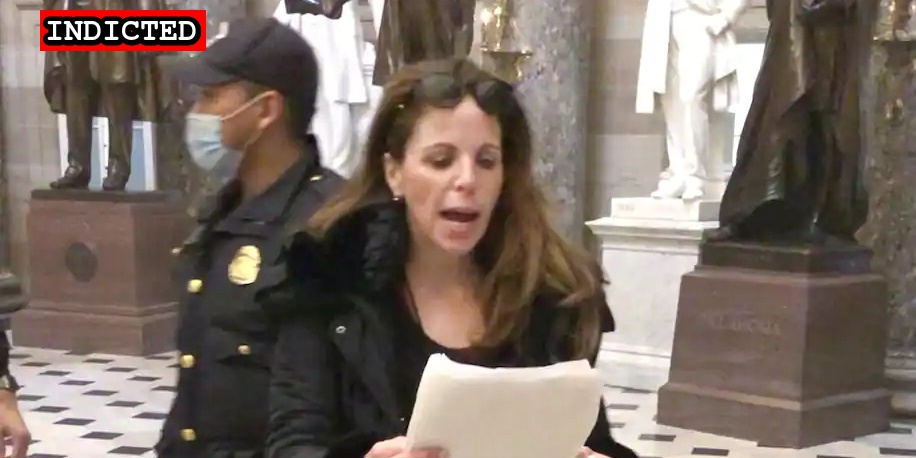
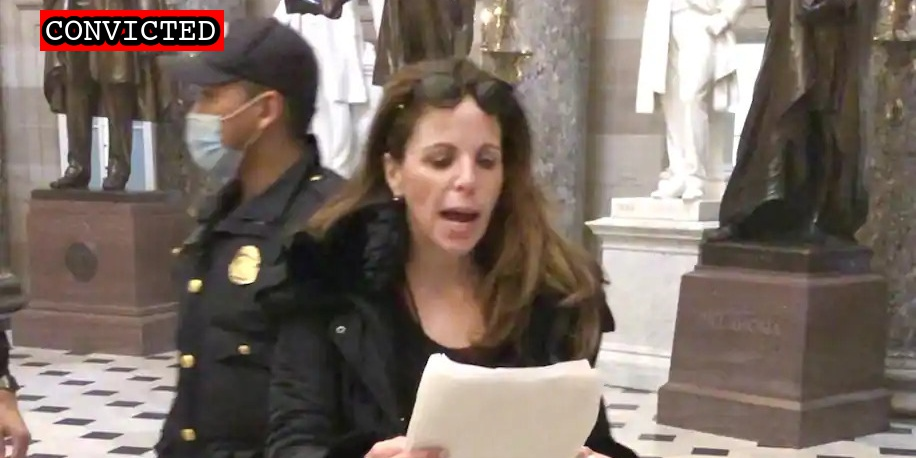
Latest import

Changed region(s): [[0.0306, 0.0, 0.2445, 0.1223]]

diff --git a/docs/_suspects/simone-gold.md b/docs/_suspects/simone-gold.md
@@ -4,15 +4,15 @@ lastName: Gold
 hashtag: SimoneGold
 aka:
 residence: California
-status: Indicted
+status: Convicted
 date: 2021-01-18
 charged: 2021-01-18
 indicted: 2021-02-05
-convicted: 
-sentenced: 
-dismissed: 
+convicted: 2022-03-03
+sentenced:
+dismissed:
 deceased:
-plea_hearing:
+plea_hearing: 2022-03-03
 sentencing:
 age: 55
 occupation: Founder of America’s Frontline Doctors (COVID disinformation)
@@ -34,11 +34,17 @@ published: true
 caseNumber: 1:21-cr-85
 videos:
 charges:
+  - code: 18 USC § 1752(a)(1)
+    title: Entering a restricted building or grounds
+    url: https://www.law.cornell.edu/uscode/text/18/1752
+    felony: false
 sentence:
 ---
+
 - [News Report](https://losangeles.cbslocal.com/2021/01/19/beverly-hills-salon-owner-gina-bisignano-2-others-arrested-for-capitol-riots/)
 - [Self Incrimination (Interview)](https://www.washingtonpost.com/investigations/simone-gold-capitol-riot-coronavirus/2021/01/12/d1d39e84-545f-11eb-a817-e5e7f8a406d6_story.html)
 - [FBI Statement (Twitter)](https://twitter.com/FBILosAngeles/status/1351604985210040326?s=20)
-- [Statement of Facts](https://www.justice.gov/opa/page/file/1356546/download)
+- [Statement of Facts](https://www.justice.gov/usao-dc/case-multi-defendant/file/1479696/download)
 - [Complaint](https://www.justice.gov/opa/page/file/1356551/download)
 - [Indictment](https://www.justice.gov/usao-dc/case-multi-defendant/file/1365386/download)
+- [Plea Agreement](https://www.justice.gov/usao-dc/case-multi-defendant/file/1479691/download)

diff --git a/docs/_suspects/philip-weisbecker.md b/docs/_suspects/philip-weisbecker.md
@@ -4,15 +4,15 @@ lastName: Weisbecker
 hashtag:
 aka:
 residence: California
-status: Charged
+status: Convicted
 date: 2021-10-14
 charged: 2021-10-14
 indicted:
-convicted:
+convicted: 2022-03-03
 sentenced:
 dismissed:
 deceased:
-plea_hearing:
+plea_hearing: 2022-03-03
 sentencing:
 age:
 occupation: Freelance Construction Building Estimator
@@ -31,11 +31,15 @@ description: Click for latest case details. Suspects innocent until proven guilt
 author: seditiontrack
 layout: suspect
 published: true
-caseNumber:
+caseNumber: 1:21-cr-682
 videos:
 charges:
+- code: 18 USC § 5104(e)(2)(G)
+  title: Parading, demonstrating or picketing in a Capitol building
+  url: https://www.law.cornell.edu/uscode/text/40/5104
+  felony: false
 sentence:
 ---
-
 - [News Report](https://www.rawstory.com/insurrectionist-says-ashli-babbitt-fake/)
-- [Statement of Facts](https://extremism.gwu.edu/sites/g/files/zaxdzs2191/f/Philip%20Weisbecker%20Statement%20of%20Facts.pdf)
+- [Statement of Facts](https://www.justice.gov/usao-dc/case-multi-defendant/file/1479891/download)
+- [Plea Agreement](https://www.justice.gov/usao-dc/case-multi-defendant/file/1479886/download)

diff --git a/docs/_suspects/narayana-rheiner.md b/docs/_suspects/narayana-rheiner.md
@@ -1,0 +1,41 @@
+---
+name: Narayana Rheiner
+lastName: Rheiner
+hashtag:
+aka:
+residence:
+status: Charged
+date: 2022-03-01
+charged: 2022-03-01
+indicted:
+convicted:
+sentenced:
+dismissed:
+deceased:
+plea_hearing:
+sentencing:
+age:
+occupation:
+affiliations:
+jurisdiction: Federal
+image: /images/preview/narayana-rheiner.jpg
+suspect: narayana-rheiner.jpg
+booking:
+courtroom:
+courthouse:
+raid:
+perpwalk:
+quote:
+title: Narayana Rheiner charged on March 1st, 2022
+description: Click for latest case details. Suspects innocent until proven guilty.
+author: seditiontrack
+layout: suspect
+published: false
+caseNumber: 1:22-mj-46
+videos:
+charges:
+sentence:
+---
+- [News Report]()
+- [Complaint](https://www.justice.gov/usao-dc/case-multi-defendant/file/1479781/download)
+- [Statement of Facts](https://www.justice.gov/usao-dc/case-multi-defendant/file/1479786/download)

diff --git a/docs/_suspects/iraj-javid.md b/docs/_suspects/iraj-javid.md
@@ -1,0 +1,41 @@
+---
+name: Iraj Javid
+lastName: Javid
+hashtag:
+aka:
+residence:
+status: Charged
+date: 2022-03-01
+charged: 2022-03-01
+indicted:
+convicted:
+sentenced:
+dismissed:
+deceased:
+plea_hearing:
+sentencing:
+age:
+occupation:
+affiliations:
+jurisdiction: Federal
+image: /images/preview/iraj-javid.jpg
+suspect: iraj-javid.jpg
+booking:
+courtroom:
+courthouse:
+raid:
+perpwalk:
+quote:
+title: Iraj Javid charged on March 1st, 2022
+description: Click for latest case details. Suspects innocent until proven guilty.
+author: seditiontrack
+layout: suspect
+published: false
+caseNumber: 1:22-mj-48
+videos:
+charges:
+sentence:
+---
+- [News Report]()
+- [Complaint](https://www.justice.gov/usao-dc/case-multi-defendant/file/1479821/download)
+- [Statement of Facts](https://www.justice.gov/usao-dc/case-multi-defendant/file/1479826/download)
